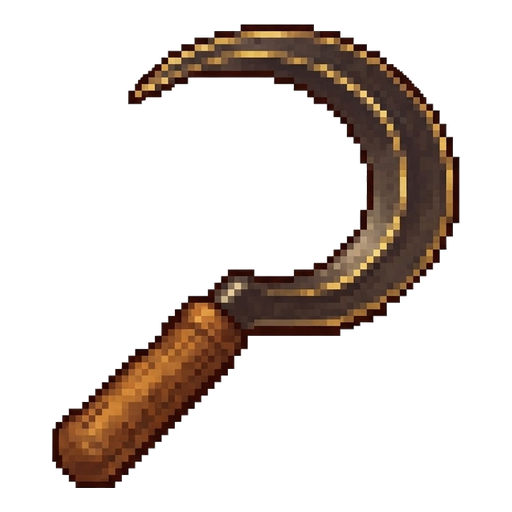
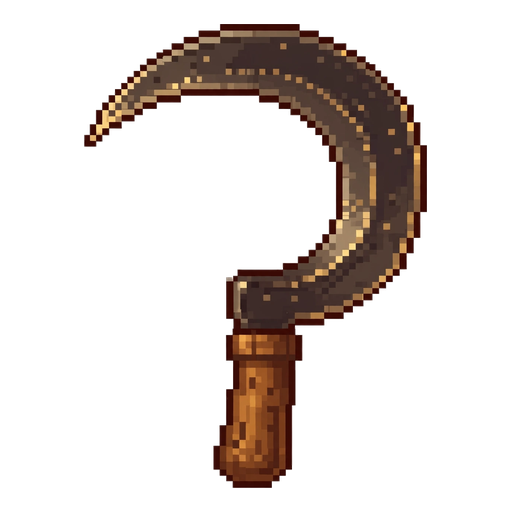
Apply reference-based sickle design

Changed region(s): [[0.0938, 0.0312, 0.9062, 0.9688]]

diff --git a/preview/index.html b/preview/index.html
@@ -47,7 +47,7 @@
           <button type="button" data-dock="hoe" aria-label="Cangkul — tanah pertanian belum tersedia" title="Cangkul — tanah pertanian belum tersedia" aria-pressed="false"><img src="assets/hud/tools/hoe-selected.png?v=2" alt=""></button>
           <button type="button" data-dock="shovel" aria-pressed="false" aria-label="Sekop — belum tersedia" title="Sekop — belum tersedia"><img src="assets/hud/tools/shovel-selected.png?v=2" alt=""></button>
           <button type="button" data-dock="water" aria-pressed="false" aria-label="Penyiram — belum tersedia" title="Penyiram — belum tersedia"><img src="assets/hud/tools/water-selected.png?v=1" alt=""></button>
-          <button type="button" data-dock="sickle" aria-pressed="false" aria-label="Sabit — belum tersedia" title="Sabit — belum tersedia"><img src="assets/hud/tools/sickle-selected.png?v=1" alt=""></button>
+          <button type="button" data-dock="sickle" aria-pressed="false" aria-label="Sabit — belum tersedia" title="Sabit — belum tersedia"><img src="assets/hud/tools/sickle-selected.png?v=2" alt=""></button>
           <button type="button" data-dock="axe" aria-pressed="false" aria-label="Kapak — belum tersedia" title="Kapak — belum tersedia"><img src="assets/hud/tools/axe.svg" alt=""></button>
           <button type="button" data-dock="pickaxe" aria-pressed="false" aria-label="Beliung — belum tersedia" title="Beliung — belum tersedia"><img src="assets/hud/tools/pickaxe.svg" alt=""></button>
           <button type="button" data-dock="fishing" aria-pressed="false" aria-label="Pancing — belum tersedia" title="Pancing — belum tersedia"><img src="assets/hud/tools/fishing.svg" alt=""></button>

diff --git a/tools/build_dock_sickle.py b/tools/build_dock_sickle.py
@@ -4,7 +4,7 @@ from collections import deque
 from pathlib import Path
 from PIL import Image
 ROOT=Path(__file__).resolve().parents[1]
-source=ROOT/'preview/assets/character-redraw/sickle-concept.png'
+source=ROOT/'preview/assets/character-redraw/sickle-reference-concept.png'
 im=Image.open(source).convert('RGBA');w,h=im.size;p=im.load();seen=bytearray(w*h);q=deque()
 def visit(x,y):
     i=y*w+x
